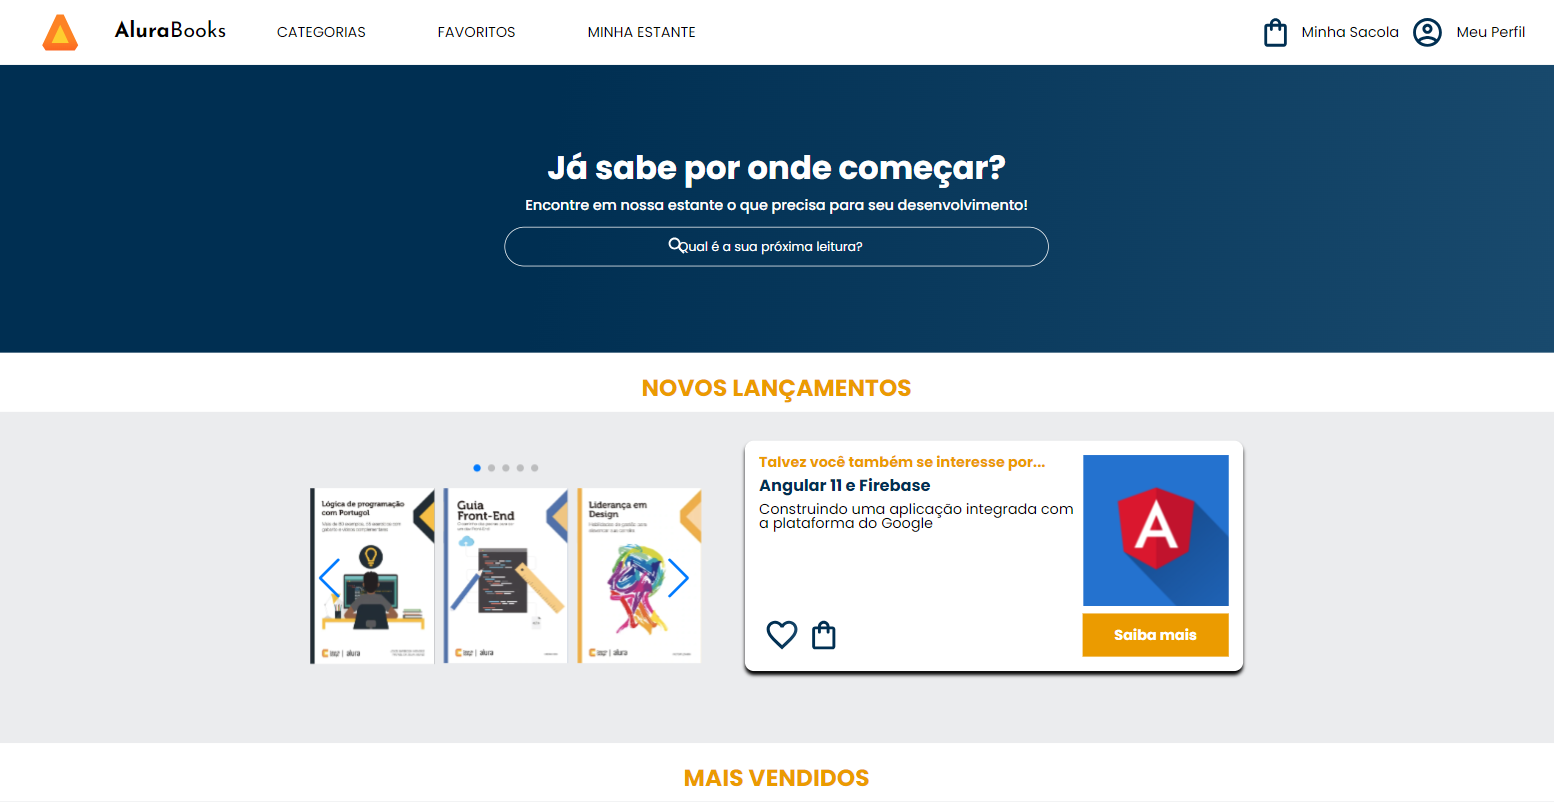
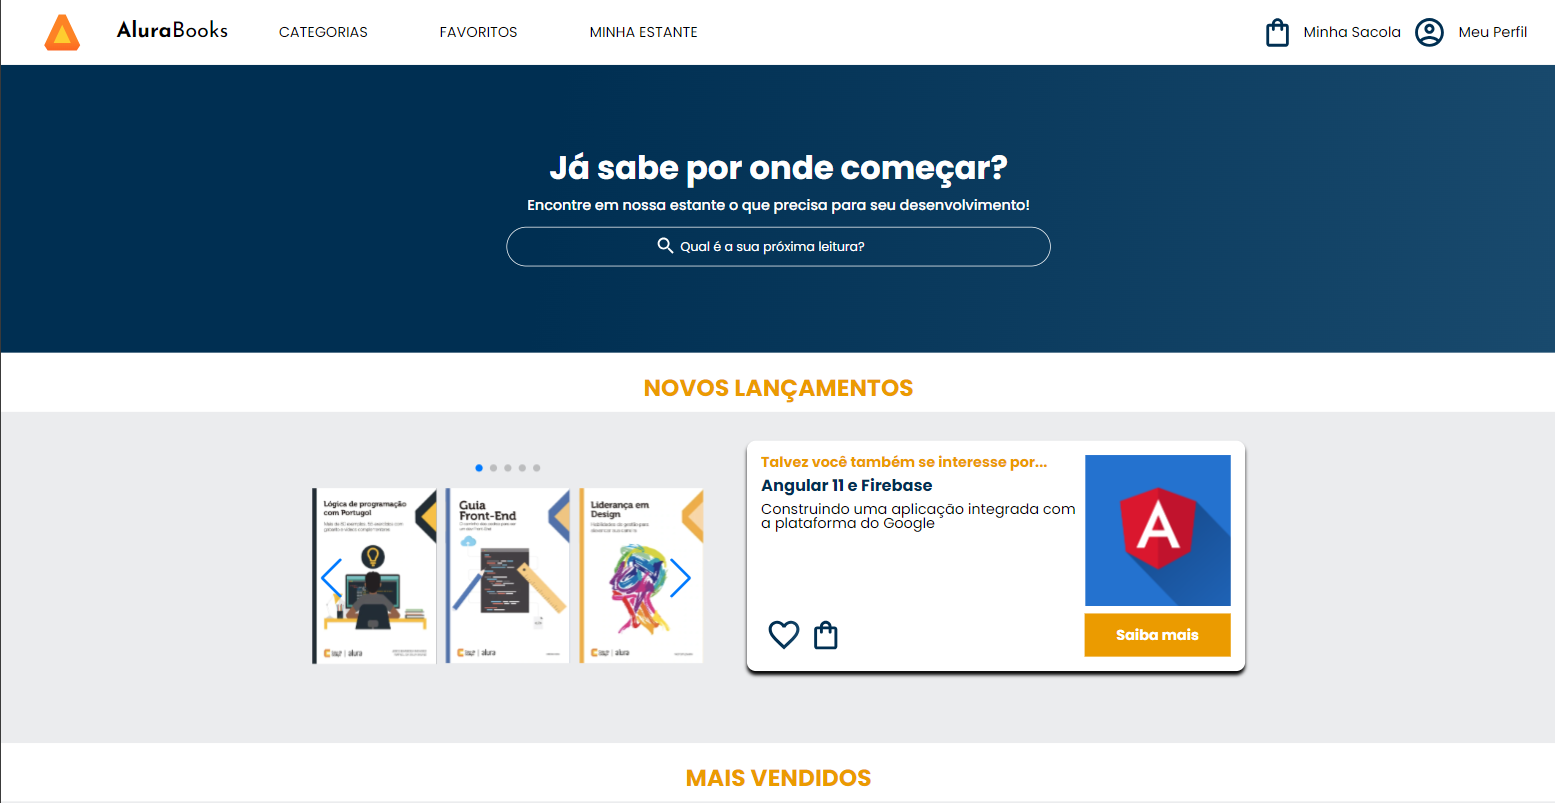
ajuste na posição da img da lupa no placeholder do layout desktop e substituição da img de screenshot no readme

diff --git a/styles/banner.css b/styles/banner.css
@@ -57,7 +57,7 @@
     }
 
     .banner__pesquisa::placeholder {
-        background-position: 12em;
+        background-position: 11em;
     }
 
     .banner {
